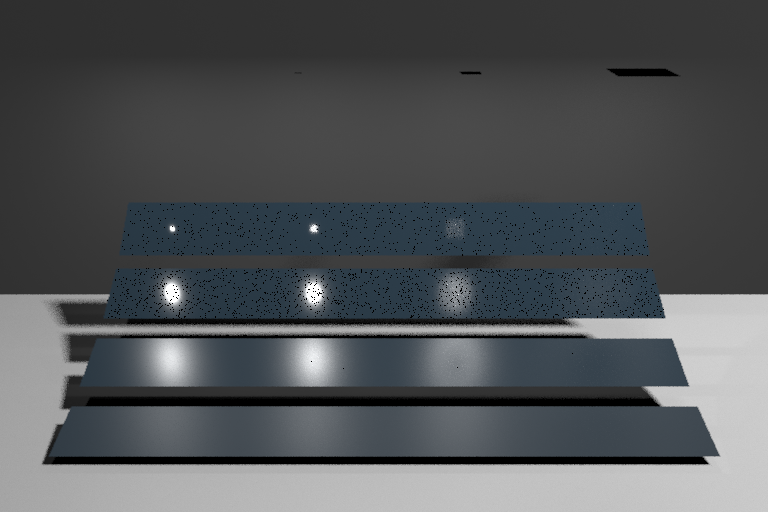
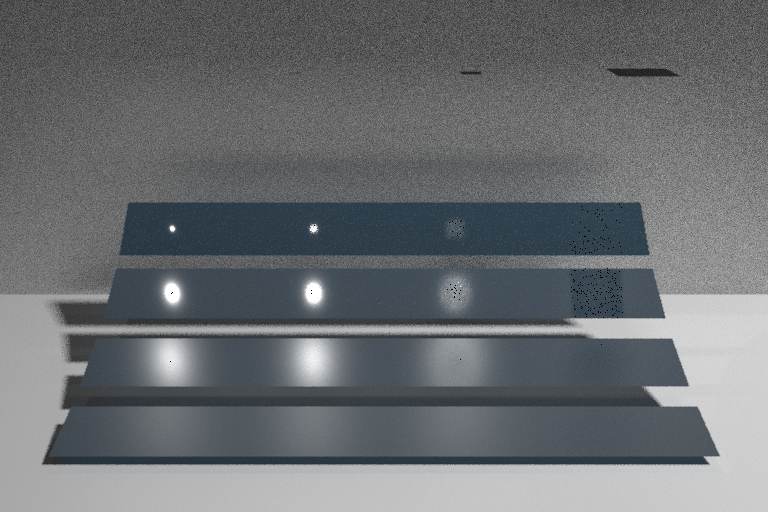
Even closer

diff --git a/src/raytracer.cpp b/src/raytracer.cpp
@@ -1013,10 +1013,10 @@ glm::vec3 PathTracerFindColor(UniformGrid* grid, const Ray& ray, Scene* scene, C
 
 	if (useNEE == "on" || useNEE == "mis")
 	{
-	/*	if (depth == 0)
-		{
-			accumCol += throughput * intersection.hitObjectEmission;
-		}*/
+		/*	if (depth == 0)
+			{
+				accumCol += throughput * intersection.hitObjectEmission;
+			}*/
 
 		std::vector<QuadLight*> lights = scene->GetQuadLights();
 		for (QuadLight* light : lights)
@@ -1059,7 +1059,7 @@ glm::vec3 PathTracerFindColor(UniformGrid* grid, const Ray& ray, Scene* scene, C
 				glm::vec3 wi = dir;
 				glm::vec3 reflectVector = glm::reflect(-wi, intersection.hitObjectNormal);
 				float reflectVecDotWo = std::max(glm::dot(reflectVector, wo), 0.0f);
-				
+
 				glm::vec3 brdf;
 
 				if (intersection.brdf == "phong")
@@ -1090,7 +1090,7 @@ glm::vec3 PathTracerFindColor(UniformGrid* grid, const Ray& ray, Scene* scene, C
 					glm::vec3 F0 = intersection.hitObjectSpecular;
 					glm::vec3 F = F0 + (glm::vec3(1.0f) - F0) * glm::pow(1.0f - VdotH, 5.0f);
 					brdf = (intersection.hitObjectDiffuse / (float)M_PI) + (D * G * F) / (4.0f * NdotL * NdotV + 1e-6f);
-					
+
 					float ks_avg = (intersection.hitObjectSpecular.r + intersection.hitObjectSpecular.g + intersection.hitObjectSpecular.b) / 3.0f;
 					float kd_avg = (intersection.hitObjectDiffuse.r + intersection.hitObjectDiffuse.g + intersection.hitObjectDiffuse.b) / 3.0f;
 
@@ -1101,15 +1101,15 @@ glm::vec3 PathTracerFindColor(UniformGrid* grid, const Ray& ray, Scene* scene, C
 					brdfNEE = (intersection.hitObjectDiffuse / (float)M_PI) + (D * G * F) / (4.0f * NdotL * NdotV + 1e-6f);
 				}
 				G = (1.0f / glm::pow(glm::length(sampleLightPoint - intersection.intersectionPoint), 2.0f)) * std::max(glm::dot(intersection.hitObjectNormal, dir), 0.0f) * std::max(glm::dot(lightNormal, dir), 0.0f);
-				
-			
+
+
 
 			}
 			if (useNEE == "mis")
 			{
 				pdfNEE = (1.0f / lightArea);
 				pdfNEE /= samples;
-			//	pdfNEE /= lights.size();
+				//	pdfNEE /= lights.size();
 
 				float weight = (pdfNEE * pdfNEE) / (pdfNEE * pdfNEE + pdfBRDF * pdfBRDF + 1e-6f);
 
@@ -1460,7 +1460,7 @@ glm::vec3 PathTracerFindColor(UniformGrid* grid, const Ray& ray, Scene* scene, C
 				{
 					fGGX = glm::vec3(0.0f);
 				}
-				
+
 
 				brdf =
 					(intersection.hitObjectDiffuse / (float)M_PI) + fGGX;
@@ -1551,9 +1551,12 @@ glm::vec3 PathTracerFindColor(UniformGrid* grid, const Ray& ray, Scene* scene, C
 	//	weightBRDF = 1.0f;
 	//}
 //	accumCol += brdf * std::max(glm::dot(intersection.hitObjectNormal, w_i), 0.0f) * weight;
+	if (useNEE == "mis" && secondaryIntersection.isLight)
+	{
+		float weightBRDF = (pdf * pdf) / (pdf * pdf + pdfNEE * pdfNEE + 1e-6f);
+		accumCol += throughput * brdf * std::max(glm::dot(intersection.hitObjectNormal, w_i), 0.0f) * weightBRDF;
 
-	float weightBRDF = (pdf * pdf) / (pdf * pdf + pdfNEE * pdfNEE + 1e-6f);
-	return accumCol += throughput * brdf * std::max(glm::dot(intersection.hitObjectNormal, w_i), 0.0f) * weightBRDF;
+	}
 	return accumCol += PathTracerFindColor(grid, secondaryRay, scene, camera, depth + 1, samples, stratify, secondaryIntersection, useNEE, useRR, throughput, importanceSampling, secondaryIntersection.brdf);
 
 }
@@ -1641,7 +1644,7 @@ int RenderPixels(int heightChunkStart, int heightChunk, Scene& scene, Camera& ca
 						//accumCol += intersection.hitObjectEmission;
 					}
 				}
-			//	accumCol /= 2;
+				//	accumCol /= 2;
 				accumCol /= static_cast<float>(spp); // Average the samples for anti-aliasing
 				col = accumCol;
 			}
@@ -1969,7 +1972,6 @@ int main() {
 		if (cmd == "brdf")
 		{
 			std::cout << line << std::endl;
-			brdf = "";
 			iss >> brdf;
 		}
 
